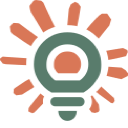
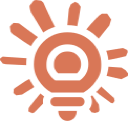
Update SVG color and adjust padding in popup.css for improved layout

Changed region(s): [[0.25, 0.25, 0.8125, 0.9688]]

diff --git a/popup.css b/popup.css
@@ -137,7 +137,7 @@ body {
 }
 
 .tip-content {
-  padding: 0 16px 16px 44px;
+  padding: 16px 16px 16px 44px;
 }
 
 .footer {
